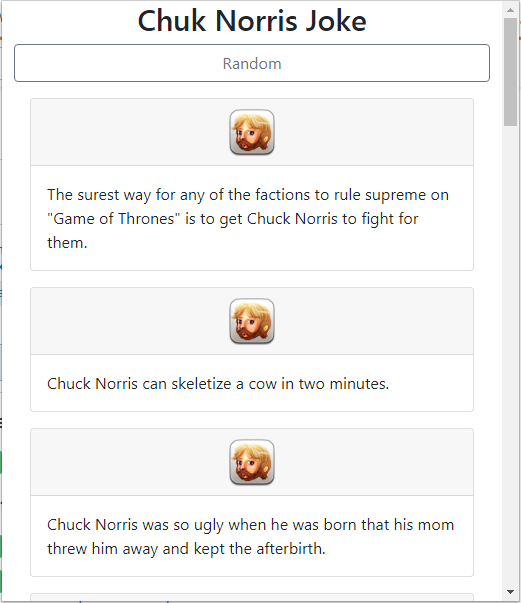
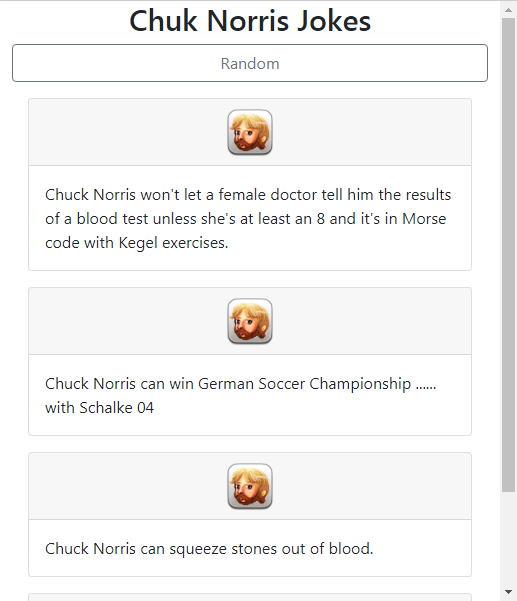
Change screenshot

diff --git a/template-jokes/popup.html b/template-jokes/popup.html
@@ -9,7 +9,7 @@
 </head>
 <body>   
     <div class="container">
-        <h1 class="text-center">Chuk Norris Joke</h1>
+        <h1 class="text-center">Chuk Norris Jokes</h1>
         <button id="random" class="btn btn-outline-secondary form-control" type="button">Random</button>
         <div id="joke"></div>
     </div> 
